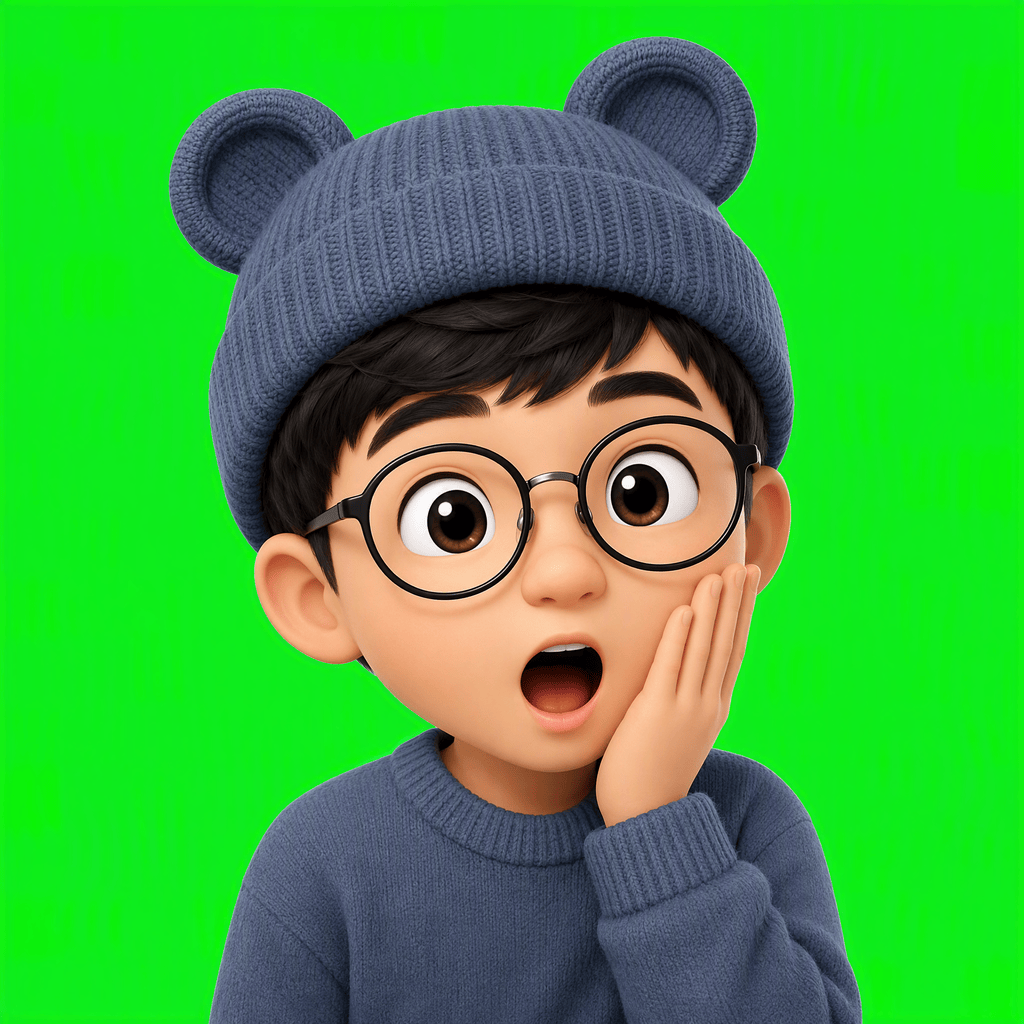
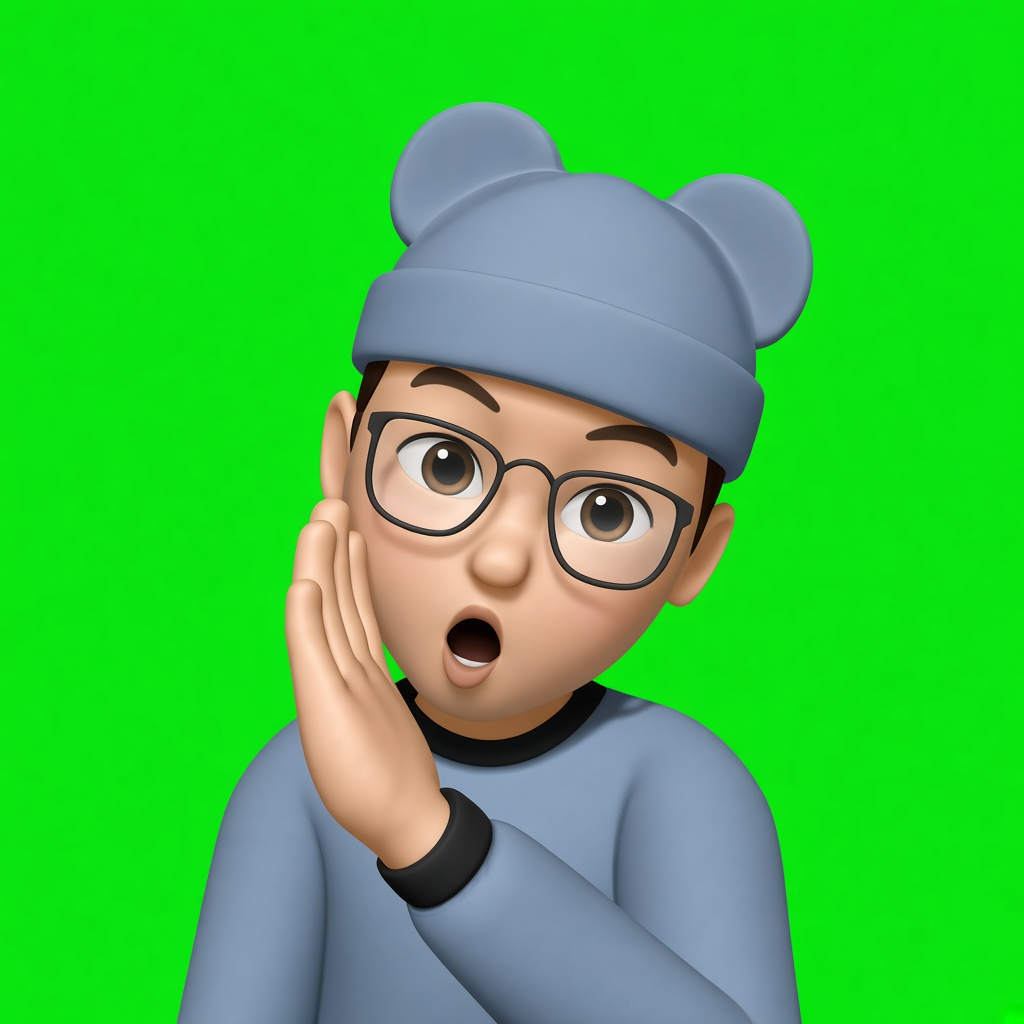
Update video cover formats and personal Memoji assets

diff --git a/skills/video-cover-studio/SKILL.md b/skills/video-cover-studio/SKILL.md
@@ -1,6 +1,6 @@
 ---
 name: video-cover-studio
-description: 为视频制作高点击率封面，覆盖 B 站横版、抖音竖版、小红书方版三种规格，并在封面上合成固定的 Q 版 IP 形象。当用户说「做个封面」「视频封面」「帮我设计封面」「封面点击率差」「换个封面」「出个横版和竖版封面」「加上我的 Q 版形象」「封面加头像」，或给出一个视频文件并询问用什么画面当封面时使用。会从视频中抽取关键帧作为真实素材证据，按各平台安全区与信息流竞争规律排版，并可生成配套的标题与发布文案。不负责视频剪辑、字幕制作、信息图表生成，也不负责与视频无关的通用海报设计。
+description: 为视频制作高点击率封面，覆盖 16:9、4:3、1:1、3:4、9:16 五种比例，适配 B 站、抖音、小红书的不同发布入口，并在封面上合成固定的 Q 版 IP 形象。当用户说「做个封面」「视频封面」「帮我设计封面」「封面点击率差」「换个封面」「出个横版和竖版封面」「加上我的 Q 版形象」「封面加头像」，或给出一个视频文件并询问用什么画面当封面时使用。会从视频中抽取关键帧作为真实素材证据，按各平台安全区与信息流竞争规律排版，并可生成配套的标题与发布文案。不负责视频剪辑、字幕制作、信息图表生成，也不负责与视频无关的通用海报设计。
 ---
 
 # Video Cover Studio
@@ -67,6 +67,15 @@ uv run <skill_directory>/scripts/extract_frames.py --video <路径> --interval 6
 
 ## Step 4：生成封面
 
+### 多比例交付
+
+- 用户未限定比例、要跨平台封面时，默认交付 **16:9（1920×1080）、4:3（1920×1440）、1:1（1600×1600）、3:4（1080×1440）、9:16（1080×1920）** 五版。用户明确只要某几种时按其范围交付。
+- 比例由**实际发布入口**决定，不把平台名绑定成唯一比例。先看上传页比例选项和预览；只能凭截图估计时说明「看起来是」，不能当作平台官方规格。
+- 先确定一版主视觉，再围绕同一标题、系列编号和选定人物，按每种比例**重新排版**。不拉伸人脸、不把宽图居中硬裁成其他比例。
+- 补边仅作临时兼容方案，文件名和交付说明明确标注「补边适配」，说明会增加留白；不能当成重新设计完成版。
+- 完成后检查实际像素比例、整图及手机缩略图，确认标题首尾、系列号、人脸、IP 未被裁切或遮挡。交付一张带比例标签的总览，并标明各文件的建议入口；未经平台预览验证，不承诺上传后绝对不裁切。
+- 详细布局、安全区与验收见 `references/cover-playbook.md` 第二节。`compose_cover.py` 当前仅有三种平台预设，不能声称已支持五版一键生成；4:3、1:1 需按本节另行排版生成并验尺寸。
+
 两条路线，按需选择或都出：
 
 **路线 A — 真实截图版（可信度高）**
@@ -85,7 +94,7 @@ uv run <skill_directory>/scripts/extract_frames.py --video <路径> --interval 6
 
 有脸的封面更容易被注意到，但很多创作者不愿出镜。Q 版 IP 形象兼顾两者，还能沉淀成账号辨识度。
 
-`assets/ip/` 下附了一套**示例形象**（含绿幕立绘与形象档案），可直接拿来跑通流程；正式使用时按 `references/ip-system.md` 生成属于你自己的形象替换即可。
+`assets/ip/` 下是固定的个人 Memoji IP（浅灰蓝熊耳针织帽 + 细黑框眼镜），含绿幕立绘与形象档案。合成封面时直接用；扩展表情必须先读 `assets/ip/ip-profile.json`，按 `references/ip-system.md` 逐项对齐 appearance。
 
 ```bash
 uv run <skill_directory>/scripts/compose_ip.py \
@@ -106,16 +115,20 @@ IP 形象的建立与扩展见 `references/ip-system.md`。
 
 ## Step 6：归档
 
-封面存到**视频同目录**下的 `covers/` 子目录，命名带平台和规格：
+封面存到**视频同目录**下的 `covers/` 子目录，命名带版本、比例和尺寸（平台仅作建议入口）：
 
 ```
 covers/
-├── 封面_B站_横版_1920x1080.png
-├── 封面_抖音_竖版_1080x1920.png
-├── 封面_小红书_方版_1080x1440.png
-├── 备选_*.jpg
+├── 封面_v1_16比9_1920x1080.png
+├── 封面_v1_4比3_1920x1440.png
+├── 封面_v1_1比1_1600x1600.png
+├── 封面_v1_3比4_1080x1440.png
+├── 封面_v1_9比16_1080x1920.png
+├── 封面_v1_比例总览.jpg
 └── 发布文案.md
 ```
+
+3:4 是竖版，不称为方版；只有 1:1 才是方版。修改另存版本，未获授权不覆盖或删除旧图。
 
 `发布文案.md` 里放标题候选、各平台简介、话题标签。写法见 `references/copywriting.md`。
 

diff --git a/skills/video-cover-studio/references/cover-playbook.md b/skills/video-cover-studio/references/cover-playbook.md
@@ -31,15 +31,45 @@
 
 ---
 
-## 二、平台规格与安全区
+## 二、多比例交付与安全区
 
-| 平台 | 尺寸 | 比例 | 安全区约束 |
-|---|---|---|---|
-| B 站 | 1920×1080（最低 1146×717） | 16:9 | 右下角有时长标签，左下角有播放量。**底部 12% 避免放关键信息** |
-| 抖音 | 1080×1920 | 9:16 | **底部 25% 被文案/昵称/进度条遮挡；右侧 15% 被点赞评论栏遮挡**。关键信息放上部 60%、左侧 85% |
-| 小红书 | 1080×1440 | 3:4 | 封面即笔记首图。**底部 15% 会被标题文字压住**。3:4 在瀑布流里占位最大，优先用这个比例而非 1:1 |
+平台名不等于固定比例：同一平台可能有不同上传入口、封面编辑框、信息流和主页裁切。以下是工作室输出规格及排版起点，**不是平台官方强制尺寸**。实际以当前上传页的比例选项与预览为准。
 
-> 小红书特殊性：用户是"逛"而非"搜"，封面更看重**氛围感和信息密度平衡**。纯深色科技风在小红书偏冷，可适当加高饱和色块或留白，标题可以比 B 站更长（允许 12~16 字）。
+| 比例 | 输出尺寸 | 建议布局与用途 |
+|---|---|---|
+| 16:9 | 1920×1080 | 宽屏入口；左侧大标题、右侧人物，避免关键内容贴边 |
+| 4:3 | 1920×1440 | 较窄横屏入口；压缩左右布局跨度，增加上下空间，不截掉首字和人脸 |
+| 1:1 | 1600×1600 | 方形入口；标题上移、人物放下半部，不从横版直接居中裁切 |
+| 3:4 | 1080×1440 | 竖向信息流候选；上字下人，副标题及真实素材证据适当重排；这不是方版 |
+| 9:16 | 1080×1920 | 全屏竖向入口；关键信息向中上、左侧集中，底部预留界面空间 |
+
+### 默认交付范围
+
+跨平台或未指定比例时提供五种；明确只要某种比例或只做预览时，不强制额外生成。先锁定标题、系列编号、人物帧及配色，再扩展比例，避免每张生成后人物神态和文案都不同。
+
+### 安全区是预留策略，不是保证
+
+- 全部比例先给文字和完整面部预留约 5% 内边距，再根据发布预览修正。
+- B 站候选版可先避开底部约 12% 的关键文字，检查时长、播放量等实际覆盖位置。
+- 抖音全屏候选版可先避开底部约 25%、右侧约 15% 的关键内容；主页缩略图还可能采用不同裁切。
+- 小红书需分别看封面编辑框与信息流预览，不能断言所有入口都使用 3:4，或都有固定底部覆盖范围。
+- 用户给了截图时，先确认裁切框而不是整个编辑窗口的长宽；截图测量只是估计。分辨率不足、比例不符、编辑器放大是不同问题，分别排查。
+
+### 不同比例如何生成
+
+1. **优先独立排版**：保持文字、系列号、人物身份和选定表情一致，重排标题、截图证据、人物与 IP 的位置及大小。
+2. **禁止硬裁和拉伸**：16:9 铺满 4:3 容易丢左右，竖图转方图容易丢上下。输出前检查完整内容，而不是只看尺寸正确。
+3. **补边是降级方案**：保留全部像素但会增加留白、缩小主体。只有作为临时兼容图或用户接受时交付，命名例如 `补边适配_v1_4比3_1920x1440.png`，说明不是重排版。
+4. **现有脚本边界**：`compose_cover.py` 仅实现 bilibili、douyin、xiaohongshu 三个预设，分别是 16:9、9:16、3:4；不能传入不存在的 4:3 或 1:1 预设。缺失比例另行排版或使用可用图生图能力，生成后核验尺寸。
+
+### 逐版验收
+
+- 核验像素尺寸与比例；不得靠非等比缩放纠正错误比例。
+- 查看完整图和约 300 像素宽的缩略图；标题首尾、系列号、人物面部及 IP 均可辨认且不冲突。
+- 制作带比例和尺寸标签的五版总览，交付时说明哪张适合用户当前入口。
+- 有发布预览时对照验证；没有时标注「文件比例已核验，平台裁切待上传确认」，不宣称完全兼容所有入口。
+
+> 小红书版可适当使用暖色纸张、留白和高饱和色块，兼顾信息密度与阅读感；具体风格仍以用户已选主视觉为准。
 
 ---
 

diff --git a/skills/video-cover-studio/references/ip-system.md b/skills/video-cover-studio/references/ip-system.md
@@ -20,7 +20,7 @@
 
 固定形象参数存放在 `assets/ip/ip-profile.json`。**每次生成新表情都必须读取它**，否则形象会漂移，失去辨识度意义。
 
-> 仓库里自带的是一套**示例形象**（戴熊耳针织帽 + 圆框眼镜的 Q 版角色），仅用于跑通流程。建立你自己的形象后，覆盖 `ip-profile.json` 与 `assets/ip/` 下的立绘即可。
+> 当前固定形象：浅灰蓝熊耳针织帽 + 细黑框眼镜的 Apple Memoji 成人比例角色。生成新表情时必须对齐 `ip-profile.json` 的 appearance，不要漂回深蓝帽子或幼态大眼。
 
 档案记录：性别年龄、发型、配饰（帽子、眼镜）、服装、配色、渲染风格。
 
@@ -33,7 +33,7 @@
 用任意 AI 生图能力（文生图），prompt 骨架：
 
 ```
-3D Memoji-style cartoon avatar character, chibi proportions, big head.
+3D Memoji-style cartoon avatar character, Apple Memoji adult proportions, not a child.
 {读取 ip-profile.json 的 appearance 字段，逐项描述}
 Expression: {目标表情的具体描述，包括眼睛、嘴形、手势}
 Upper body bust shot, facing slightly toward viewer.
